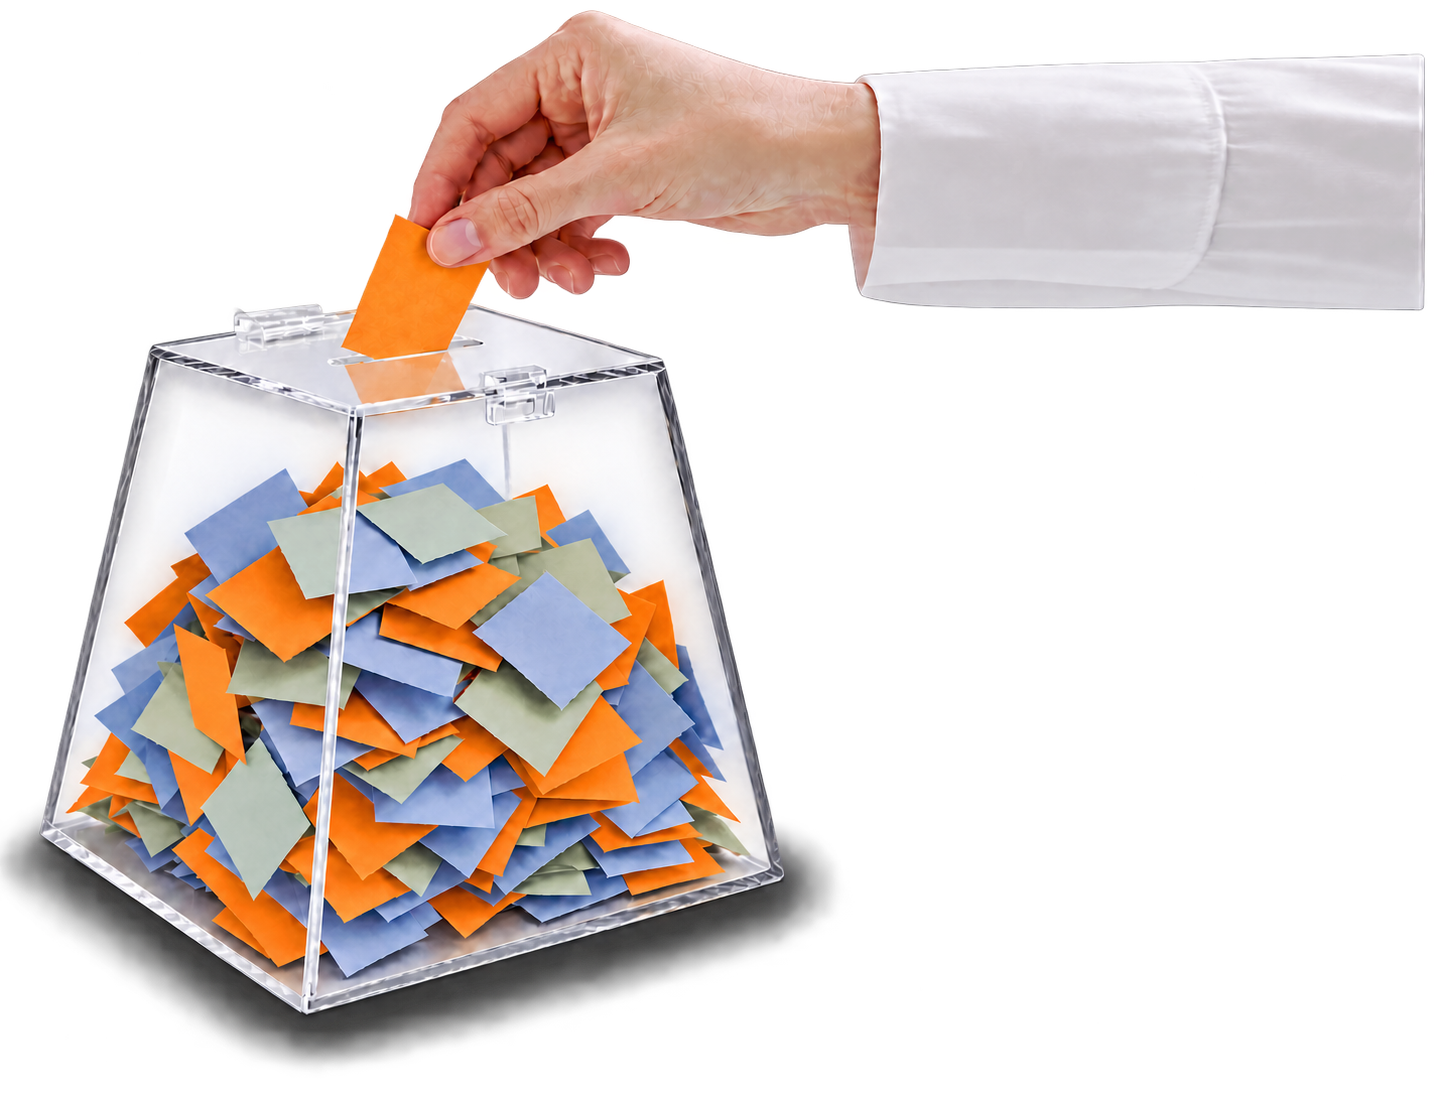
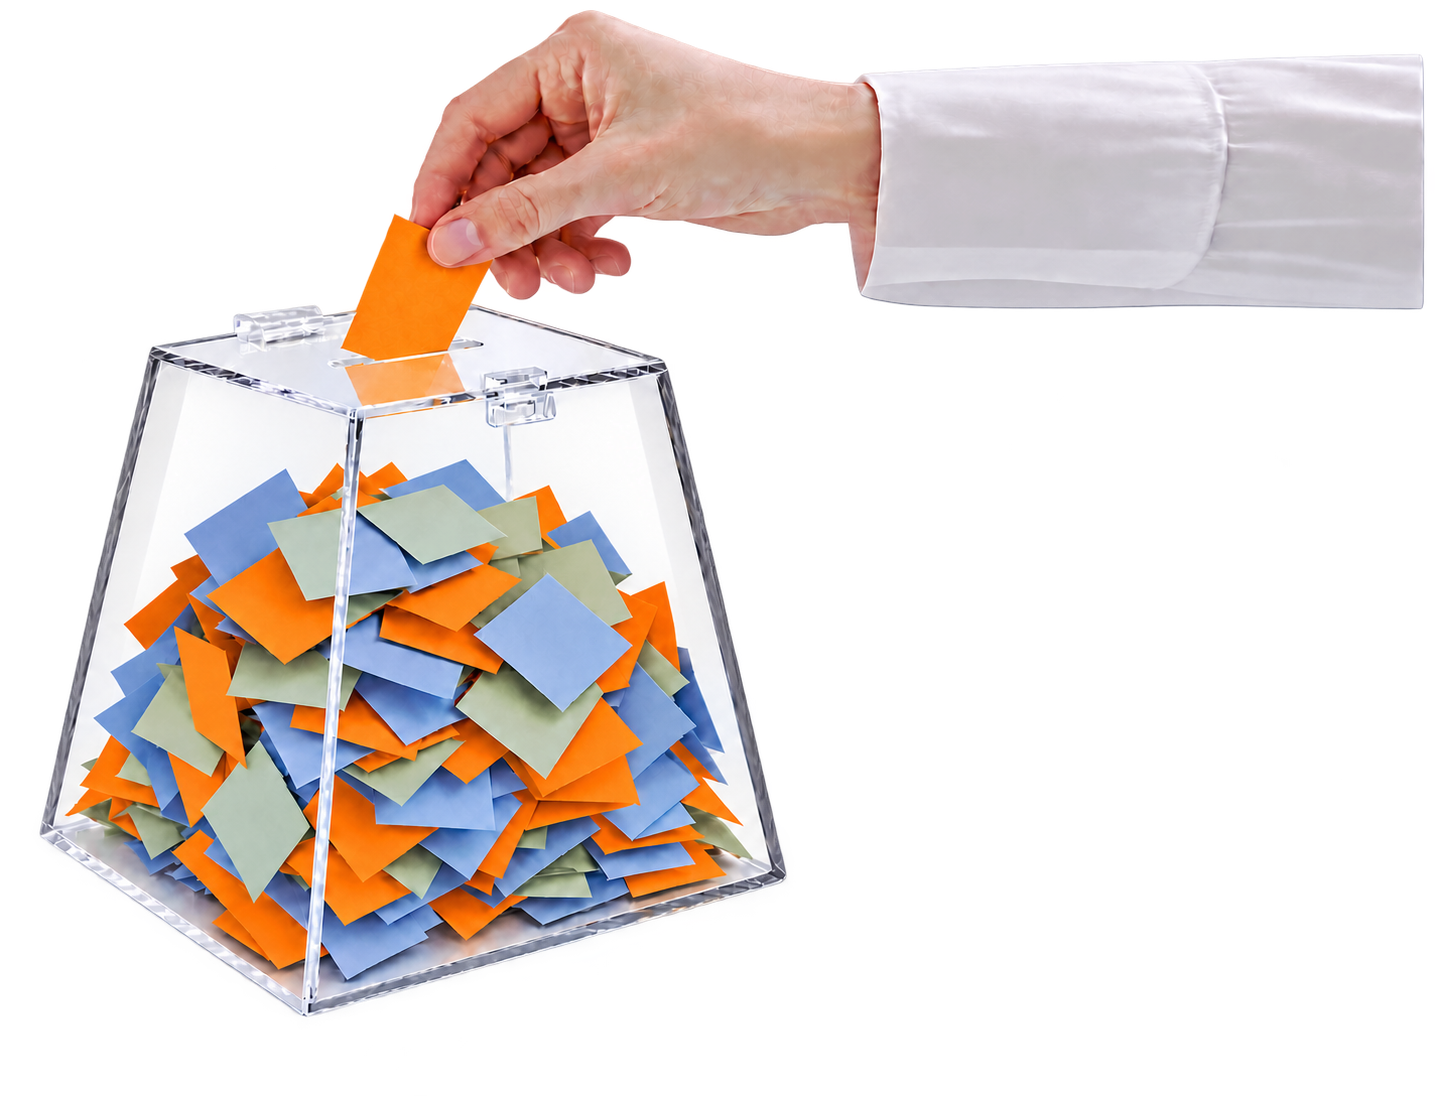
fix: remover sombra da urna do telão

diff --git a/js/admin.js b/js/admin.js
@@ -503,7 +503,7 @@ botoesOficinaAdmin.forEach(botao => {
 // 4. O SORTEADOR
 // ==========================================
 const CHAVE_BASE_SORTEIO_OFFLINE = 'semau-base-sorteio-offline-v1';
-const CACHE_TELAO_OFFLINE = 'semau-v220-sombra-sorteio';
+const CACHE_TELAO_OFFLINE = 'semau-v221-urna-sem-sombra';
 const ARQUIVOS_TELAO_OFFLINE = [
     'https://www.gstatic.com/firebasejs/10.8.0/firebase-app.js',
     'https://www.gstatic.com/firebasejs/10.8.0/firebase-firestore.js',

diff --git a/sw.js b/sw.js
@@ -1,4 +1,4 @@
-const CACHE_NAME = 'semau-v230-foto-ana';
+const CACHE_NAME = 'semau-v231-urna-sem-sombra';
 
 const TELAO_OFFLINE_ASSETS = [
     'https://www.gstatic.com/firebasejs/10.8.0/firebase-app.js',
